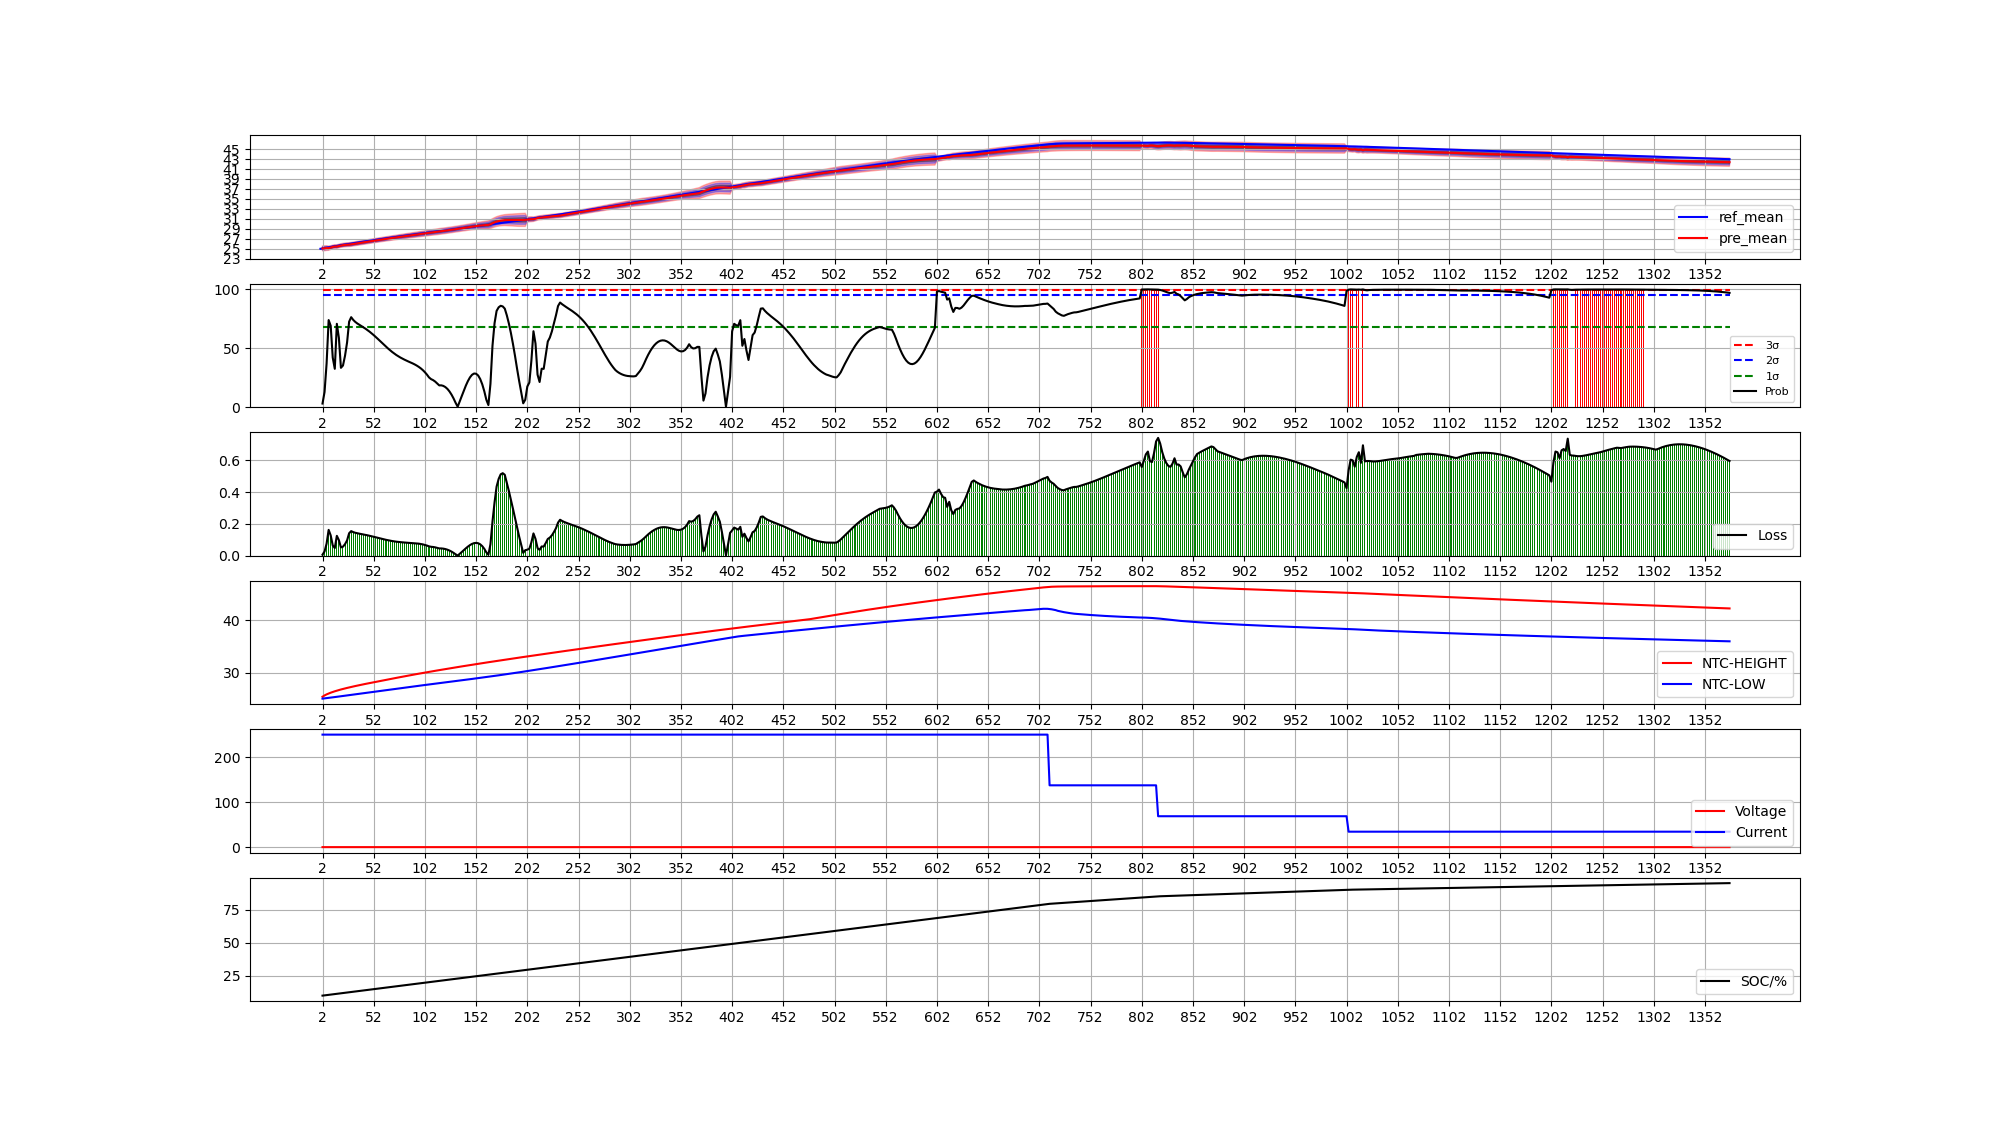
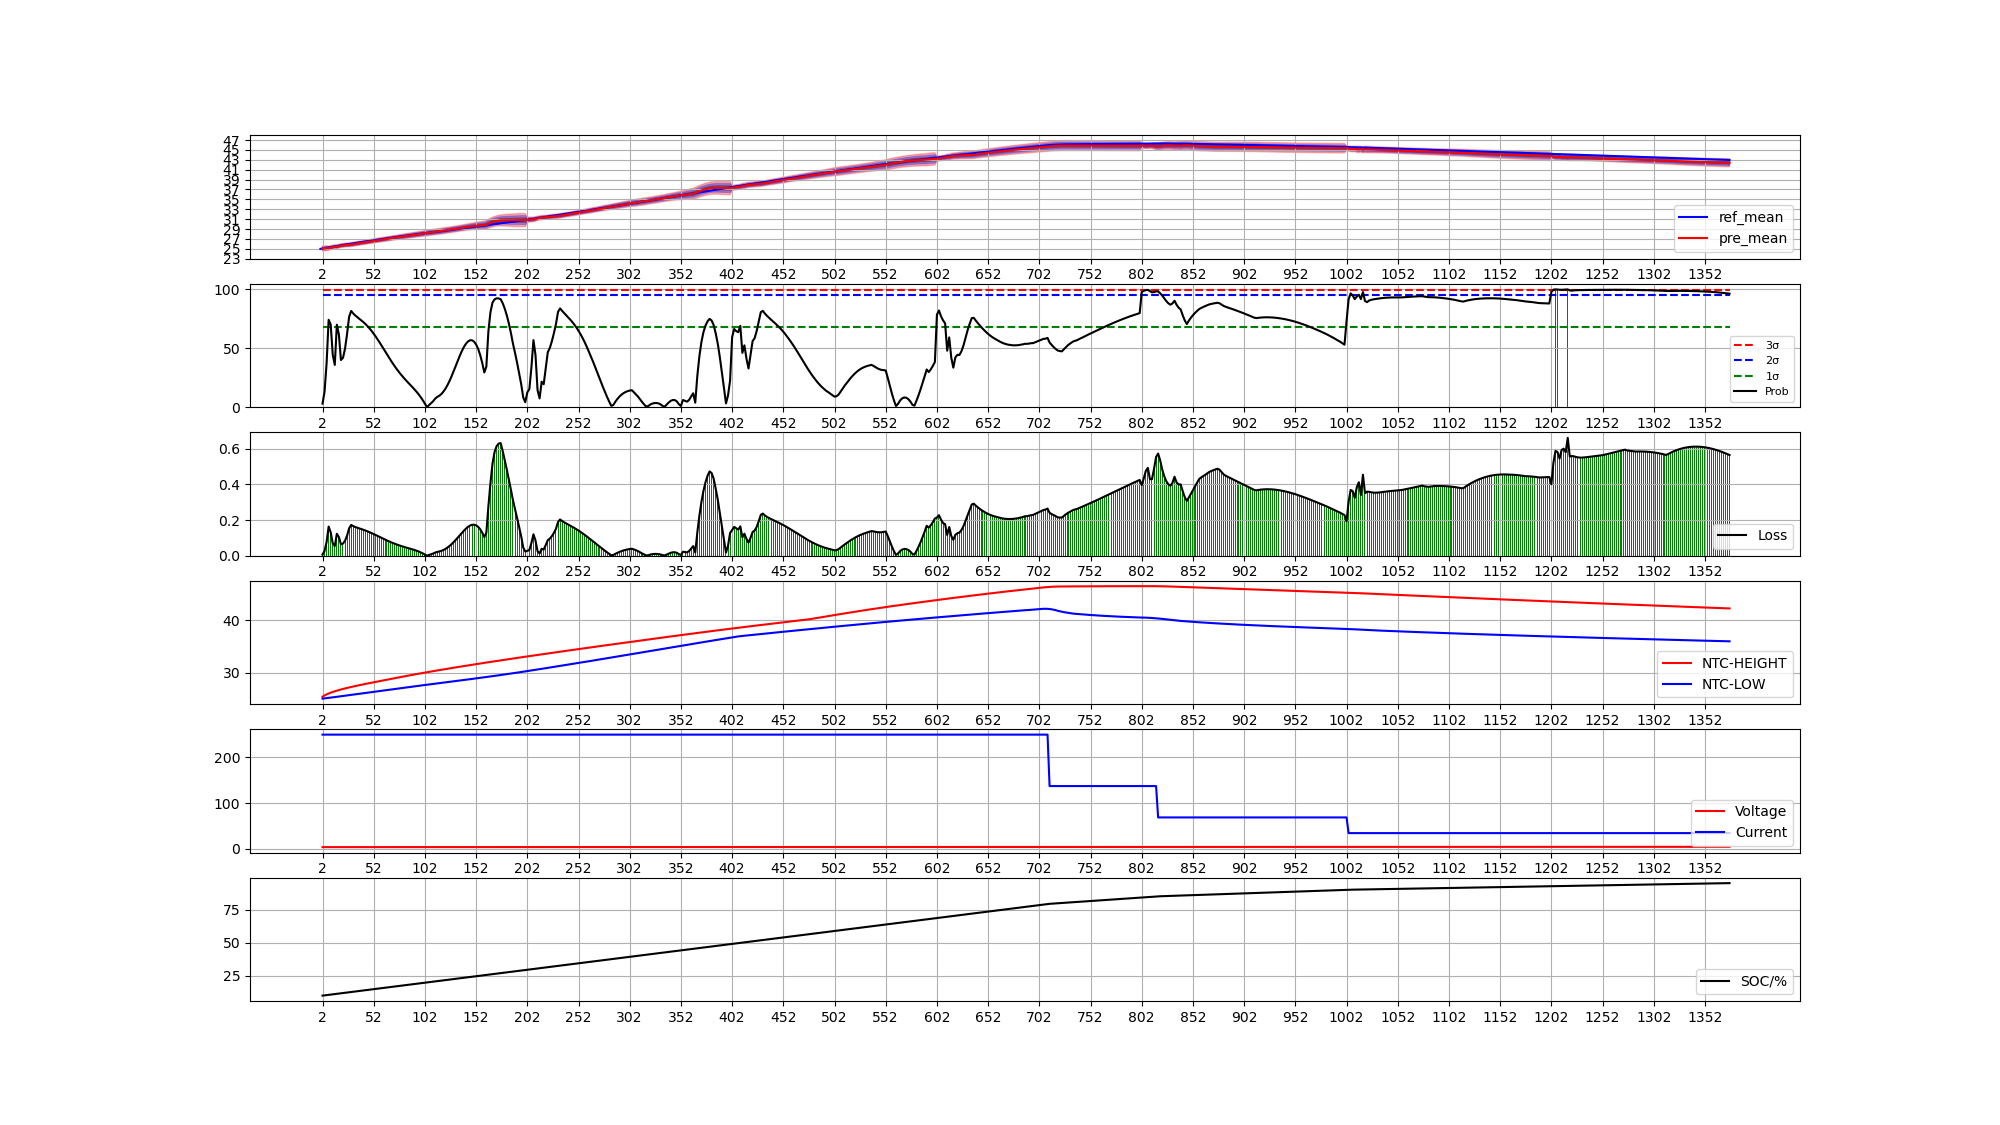
04：更改了程序名称，初始化了state预测模型的程序文件

diff --git a/pythons/api/datasets/prediction_temperature.py b/pythons/api/datasets/prediction_temperature.py
@@ -29,8 +29,6 @@ class Prediction_Seq2Seq_Dataset(Dataset):
                                              dataset_group['location'], dataset_group['NTC_max'], dataset_group['NTC_min'],
                                              dataset_group['Voltage'], dataset_group['Current'], dataset_group['SOC'],
                                              np.max(dataset_group['Temperature_max'], axis=1, keepdims=True)], axis=1)
-                data_group[:, 4] = data_group[:, 4] / 100
-                data_group[:, 5] = data_group[:, 5] * -1
                 if self.flag_slide:
                     data_group_slide = librosa_util.frame(x=data_group.transpose(), frame_length=(self.seq_history + self.seq_predict) * self.split_length, hop_length=self.hop_length)
                     for slide in range(data_group_slide.shape[-1]):
@@ -47,8 +45,8 @@ class Prediction_Seq2Seq_Dataset(Dataset):
 
 
 # 加载数据集
-path_data_origin_pkl = path_data_origin_pkl_sim
-# path_data_origin_pkl = path_data_origin_pkl_real
+# path_data_origin_pkl = path_data_origin_pkl_sim
+path_data_origin_pkl = path_data_origin_pkl_real
 dataset_train_val = Prediction_Seq2Seq_Dataset(path_data=path_data_origin_pkl, paras=paras_Prediction_Seq2Seq, modules=[0], flag_slide=True)
 dataset_test = Prediction_Seq2Seq_Dataset(path_data=path_data_origin_pkl, paras=paras_Prediction_Seq2Seq, modules=[1], flag_slide=False)
 

diff --git a/pythons/main_eval_Prediction_Temperature.py b/pythons/main_eval_Prediction_Temperature.py
@@ -8,8 +8,8 @@ from tqdm import tqdm
 from lightning_fabric.utilities.warnings import PossibleUserWarning
 
 from api.base.paras import paras_Prediction_Seq2Seq
-from api.datasets.prediction_seq2seq import paras_Prediction_Seq2Seq_dataset
-from api.models.prediction_seq2seq import Prediction_Seq2seq_LightningModule
+from api.datasets.prediction_temperature import paras_Prediction_Seq2Seq_dataset
+from api.models.prediction_temperature import Prediction_Seq2seq_LightningModule
 from api.base.paths import path_ckpt_best_version, path_ckpts, path_figs_test
 from pythons.api.util.plots import plot_for_prediction_seq2seq_val_test
 
@@ -22,8 +22,8 @@ if __name__ == '__main__':
     warnings.filterwarnings('ignore', category=UserWarning)
 
     # 找到ckpt
-    path_version = path_ckpts + 'lightning_logs/version_0/checkpoints/'
-    # path_version = path_ckpt_best_version + 'single/version_0/checkpoints/'
+    # path_version = path_ckpts + 'lightning_logs/version_0/checkpoints/'
+    path_version = path_ckpt_best_version + 'single/predict_temperature/checkpoints/'
     ckpt = path_version + os.listdir(path_version)[0]
 
     # 设置训练器

diff --git a/pythons/load_data_sim.py b/pythons/load_data_sim.py
@@ -51,7 +51,7 @@ if __name__ == '__main__':
     for module in tqdm(range(2), desc='Module', leave=False, ncols=100, disable=False):
         # 提取基本的时间戳、电压、电流和soc
         stamp, voltage, current, soc = (np.asarray(data_xlsx_state['时间']).reshape(-1, 1), np.asarray(data_xlsx_state['电压-总']).reshape(-1, 1) / 100,
-                                        np.asarray(data_xlsx_state['电流']).reshape(-1, 1) * -1, np.asarray(data_xlsx_state['SOC']).reshape(-1, 1))
+                                        np.asarray(data_xlsx_state['电流']).reshape(-1, 1), np.asarray(data_xlsx_state['SOC']).reshape(-1, 1))
 
         # 提取所有组共享的时间、NTC最高温和NTC最低温，每个模组对应四个ntc
         num_NTC = 4

diff --git a/pythons/main_train_Prediction_Temperature.py b/pythons/main_train_Prediction_Temperature.py
@@ -7,8 +7,8 @@ from lightning_fabric.utilities.warnings import PossibleUserWarning
 from pytorch_lightning.callbacks import ModelCheckpoint, EarlyStopping, ModelSummary, GradientAccumulationScheduler, Timer
 
 from api.base.paras import paras_Prediction_Seq2Seq
-from api.datasets.prediction_seq2seq import paras_Prediction_Seq2Seq_dataset
-from api.models.prediction_seq2seq import Prediction_Seq2seq_LightningModule
+from api.datasets.prediction_temperature import paras_Prediction_Seq2Seq_dataset
+from api.models.prediction_temperature import Prediction_Seq2seq_LightningModule
 from api.base.paths import path_ckpts
 
 if __name__ == '__main__':

diff --git a/pythons/api/base/paras.py b/pythons/api/base/paras.py
@@ -16,6 +16,7 @@ device = torch.device('cuda' if torch.cuda.is_available() else 'cpu')
 # Prediction_Seq2Seq
 paras_Prediction_Seq2Seq = {
     'num_measure_point': num_measure_point,
+    'info_len': 6,
     'seq_history': 1,
     'seq_predict': 200,  # 100和600
     'seq_attention_once': 100,
@@ -30,7 +31,7 @@ paras_Prediction_Seq2Seq = {
 
 # Prediction_Seq2Seq_All
 paras_Prediction_Seq2Seq_All = {
-    'length_env_info': 6,
+    'info_len': 6,
     'seq_history': 5,
     'seq_predict': 650,
     'seq_attention_once': 50,

diff --git a/pythons/api/models/prediction_temperature.py b/pythons/api/models/prediction_temperature.py
@@ -26,9 +26,9 @@ class Prediction_Seq2seq_Model(nn.Module):
         self.num_layers = paras['num_layers']
         self.device = paras['device']
         self.scale = paras['scale']
+        self.info_len = paras['info_len']
         self.delta_limit_m_ = 20
         self.delta_limit_var = 5
-        self.info_len = 6
 
         # 对未来时序进行预测，pre
         # 分为两部分：

diff --git a/pythons/api/models/prediction_temperature_all.py b/pythons/api/models/prediction_temperature_all.py
@@ -4,7 +4,7 @@ import torch.optim as optim
 import torch.optim.lr_scheduler as lr_scheduler
 import pytorch_lightning as pl
 
-from .prediction_seq2seq import Prediction_Seq2seq_Model
+from .prediction_temperature import Prediction_Seq2seq_Model
 
 
 class Prediction_Seq2seq_All_Model(nn.Module):

diff --git a/README.md b/README.md
@@ -25,11 +25,16 @@ Pre_Encoder用于对前半部分的温度分布进行预测，目前是预测七
 先计算初始温度的均值、方差和分布，然后通过Cross_Attention预测均值与方差随时间的变化，以及分布随时间的变化，最后进行反算。
 
 # 03 & 04 
-# 单模型预测单电芯
+# 多模型预测单电芯
 ## 数据处理方面
 load_data之后，不做任何处理，在各自的dataloader内进行处理。  
 在dataloader内，用滑动窗口的方式提取数据，并每隔1个点提取一个数据点。模型输入数据包含六个变量，分别是位置编码，NTC最高温，NTC最低温，电压，电流，SOC。
 ## 模型结构方面
+首先，模型1根据电流策略对SOC、电压、NTC最高温和NTC最低温进行预测  
+其次，模型2基于预测出的数据进行温度预测  
+### 模型1
+
+### 模型2
 包含一个lstm和attention，每隔50个数据点进行一次attention，并重新lstm。  
 在100 * 2个序列上进行训练，在650 * 2个序列上有稳定的表现。  
 预测的是最大值的均值和方差，使用高斯负对数似然进行误差评估。  
@@ -37,7 +42,7 @@ load_data之后，不做任何处理，在各自的dataloader内进行处理。
 
 # 预测全时序
 # 在仿真数据中
-## 对25组电芯求取其均值，最大值和最小值，可得，平均均值误差为0.4051K，平均最大值为0.8167K，平均最小值为0.0032K
+## 对25组电芯求取其均值，最大值和最小值，可得，平均均值误差为0.3204K，平均最大值为0.7734K，平均最小值为0.0010K
 ![0.png](best_version%2Fsingle%2Fsim%2F0.png)
 ![1.png](best_version%2Fsingle%2Fsim%2F1.png)
 ![2.png](best_version%2Fsingle%2Fsim%2F2.png)
@@ -64,6 +69,7 @@ load_data之后，不做任何处理，在各自的dataloader内进行处理。
 ![23.png](best_version%2Fsingle%2Fsim%2F23.png)
 ![24.png](best_version%2Fsingle%2Fsim%2F24.png)
 # 实际数据中
+## 对4组电芯求取其均值，最大值和最小值，可得，平均均值误差为1.0222K，平均最大值为2.4153K，平均最小值为0.0058K
 ![0.png](best_version%2Fsingle%2Freal%2F0.png)
 ![1.png](best_version%2Fsingle%2Freal%2F1.png)
 ![2.png](best_version%2Fsingle%2Freal%2F2.png)
